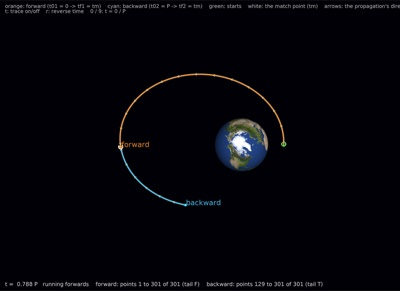
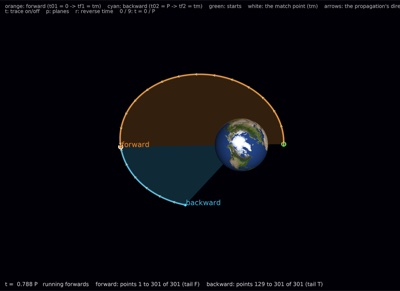
The example now traces out each orbit's plane as well

Changed region(s): [[0.3, 0.2474, 0.72, 0.7113], [0.12, 0.0309, 0.39, 0.0619]]

diff --git a/README.md b/README.md
@@ -302,7 +302,7 @@ of its own (no GUI toolkit). Each shows one part of the API:
 | `line_of_sight` | <img src="media/screenshots/examples/line_of_sight.jpg" width="160" alt="line_of_sight"> | `CustomLineSegments`: five spacecraft in different orbits (LEO, sun-synchronous, GPS, GEO, Molniya), shown as markers, with a line of sight between every pair, recomputed each frame by a callback: clear links in the spacecraft's colors, links the Earth blocks dashed. |
 | `colored_orbits` | <img src="media/screenshots/examples/colored_orbits.jpg" width="160" alt="colored_orbits"> | A color per trajectory point: a Molniya orbit colored by altitude (a smooth gradient), and a traced low orbit colored by sunlight (yellow while sunlit, blue in the Earth's umbra, matching the Earth's `ShadowCones`). |
 | `orbit_planes` | <img src="media/screenshots/examples/orbit_planes.jpg" width="160" alt="orbit_planes"> | `RibbonArtist`: orbit planes swept out from the Earth's center, for a low orbit and a geostationary orbit drawn whole, and a Molniya orbit traced as its spacecraft moves. |
-| `trace_directions` | <img src="media/screenshots/examples/trace_directions.jpg" width="160" alt="trace_directions"> | Trace mode with trajectories propagated forwards and backwards: one orbit split at a match point (forward from t01 to tm, backward from t02 to tm, the same state there). As time runs the two trace one continuous history; arrows show each one's propagation direction. Keys reverse the time and toggle trace mode. |
+| `trace_directions` | <img src="media/screenshots/examples/trace_directions.jpg" width="160" alt="trace_directions"> | Trace mode with trajectories propagated forwards and backwards: one orbit split at a match point (forward from t01 to tm, backward from t02 to tm, the same state there). As time runs the two trace one continuous history, each sweeping out its orbit's plane (`RibbonArtist`); arrows show each one's propagation direction. Keys reverse the time and toggle trace mode and the planes. |
 | `thrust_arcs` | <img src="media/screenshots/examples/thrust_arcs.jpg" width="160" alt="thrust_arcs"> | Thrust vectors along a transfer between two circular orbits, with a burn at the start and another at the apoapsis that also changes the plane (`SegmentArtist` with relative ends). The orbit is orange while thrusting, and `+` and `-` change the vectors' scale (a `WindowEventHandler`). |
 | `eclipse` | <img src="media/screenshots/examples/eclipse.jpg" width="160" alt="eclipse"> | `ShadowCones`: a total solar eclipse. The Earth orbits the Sun and the Moon orbits the Earth, and the Moon's umbra reaches the Earth inside its wide penumbra. The Earth's own shadow points away from the Sun. A HUD line shows the umbra's length. |
 | `rocky_map` | <img src="media/screenshots/examples/rocky_map.jpg" width="160" alt="rocky_map"> | Terrain with Rocky (`TerrainBody`; needs the `rocky` environment): the Earth from ReadyMap's tiles, or the Moon from NASA's Moon Trek and LOLA's elevation, from orbit and close to the surface. |
